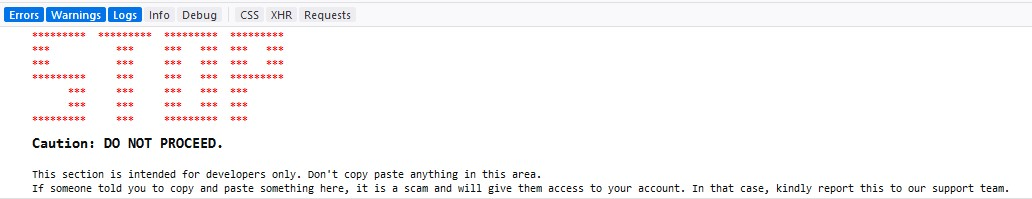
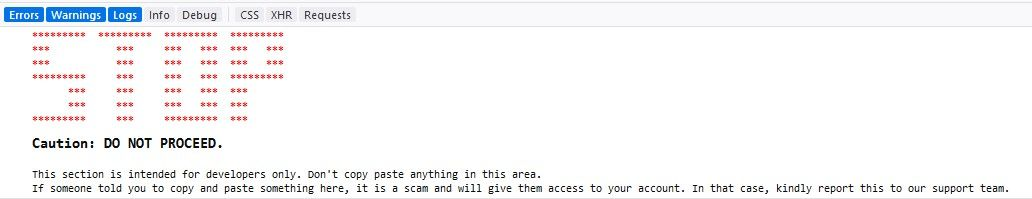
Image optimization

diff --git a/index.html b/index.html
@@ -24,7 +24,7 @@
       <a href="https://github.com/sxw-js/sxw-js/releases/" target="blank">Download Latest version</a></p>
     <h3 id="demo">Demo</h3>
     <p>The sxw.js by default displays a warning in the console like the one shown in the picture below.</p>
-    <img src="./img/sxwjs-demo.jpg">
+    <img src="./img/sxwjs-demo.webp" onerror="this.onerror=null; this.src='./img/sxwjs-demo.jpg'">
     <p>Open the console on this page to view a sample of the XSS warning displayed.</p>
     <h3 id="basic-usage">Basic Usage</h3>
     <ol>
